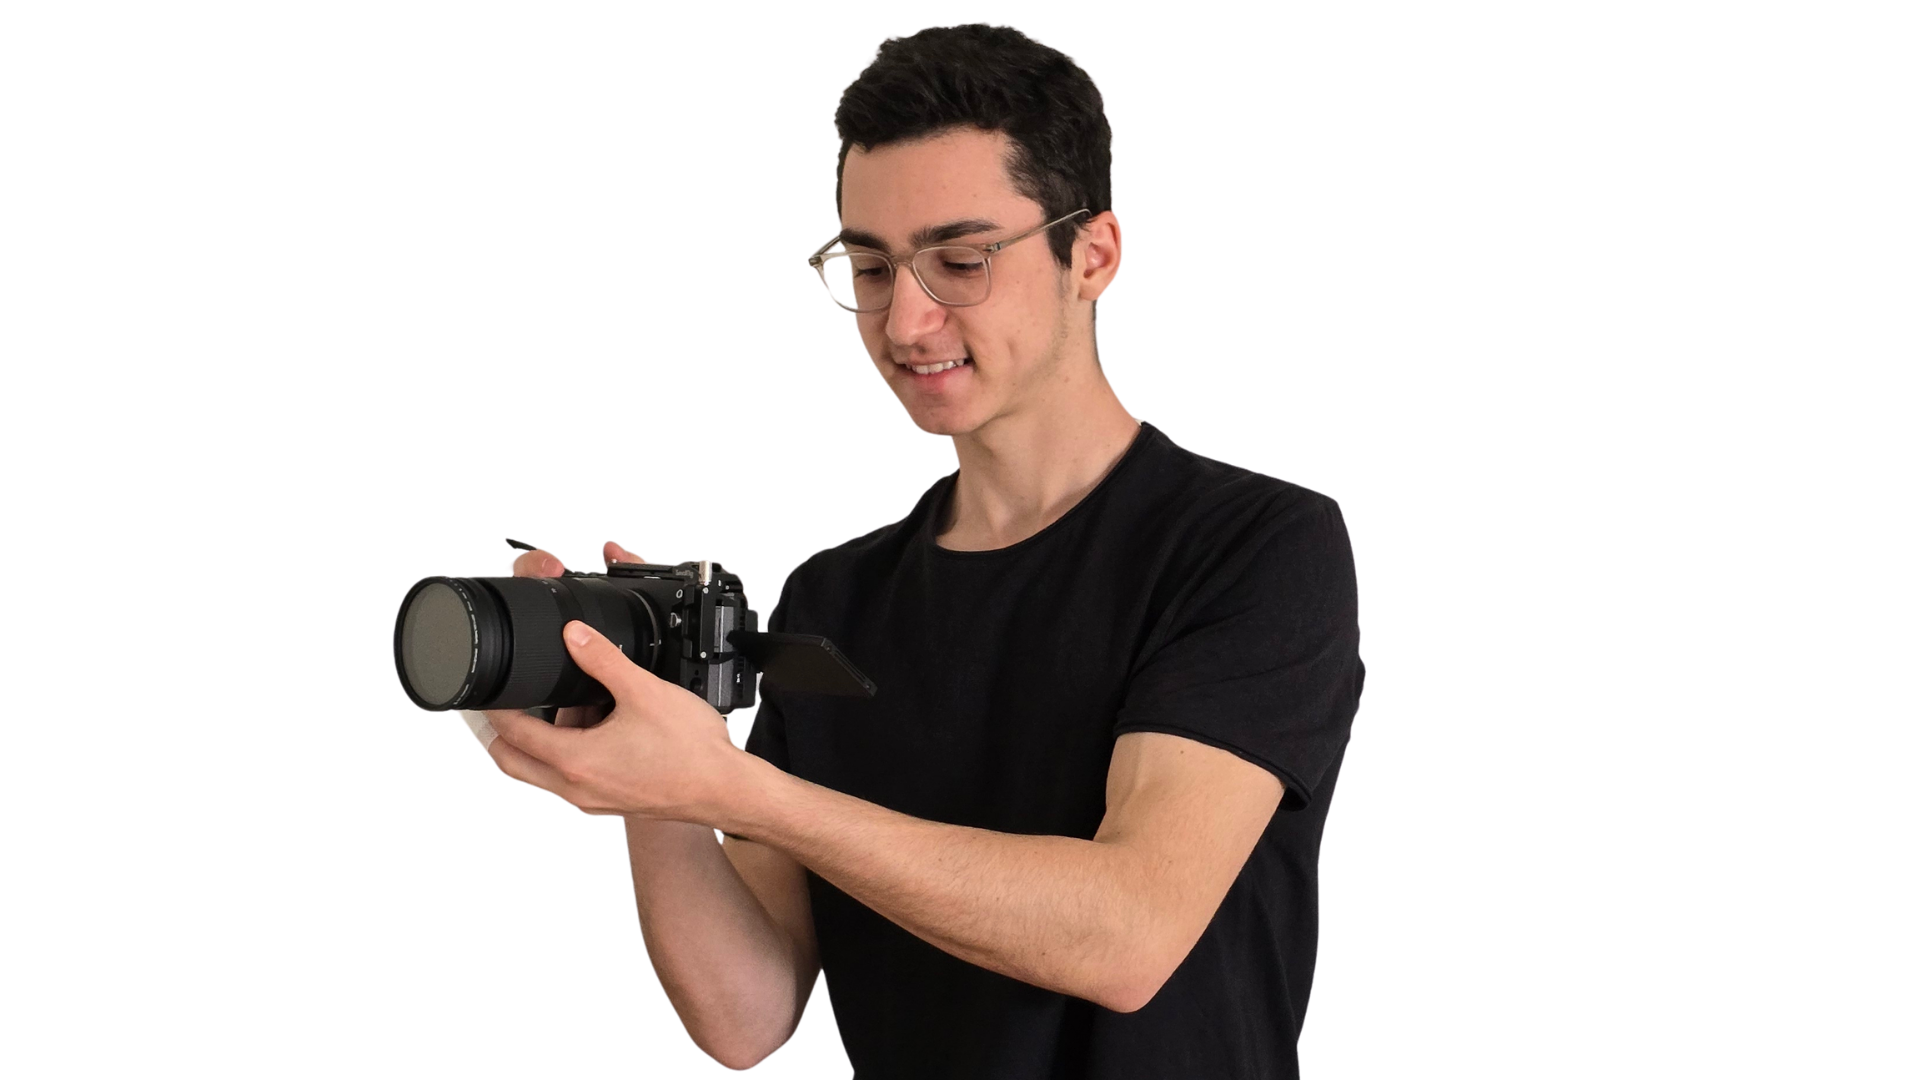
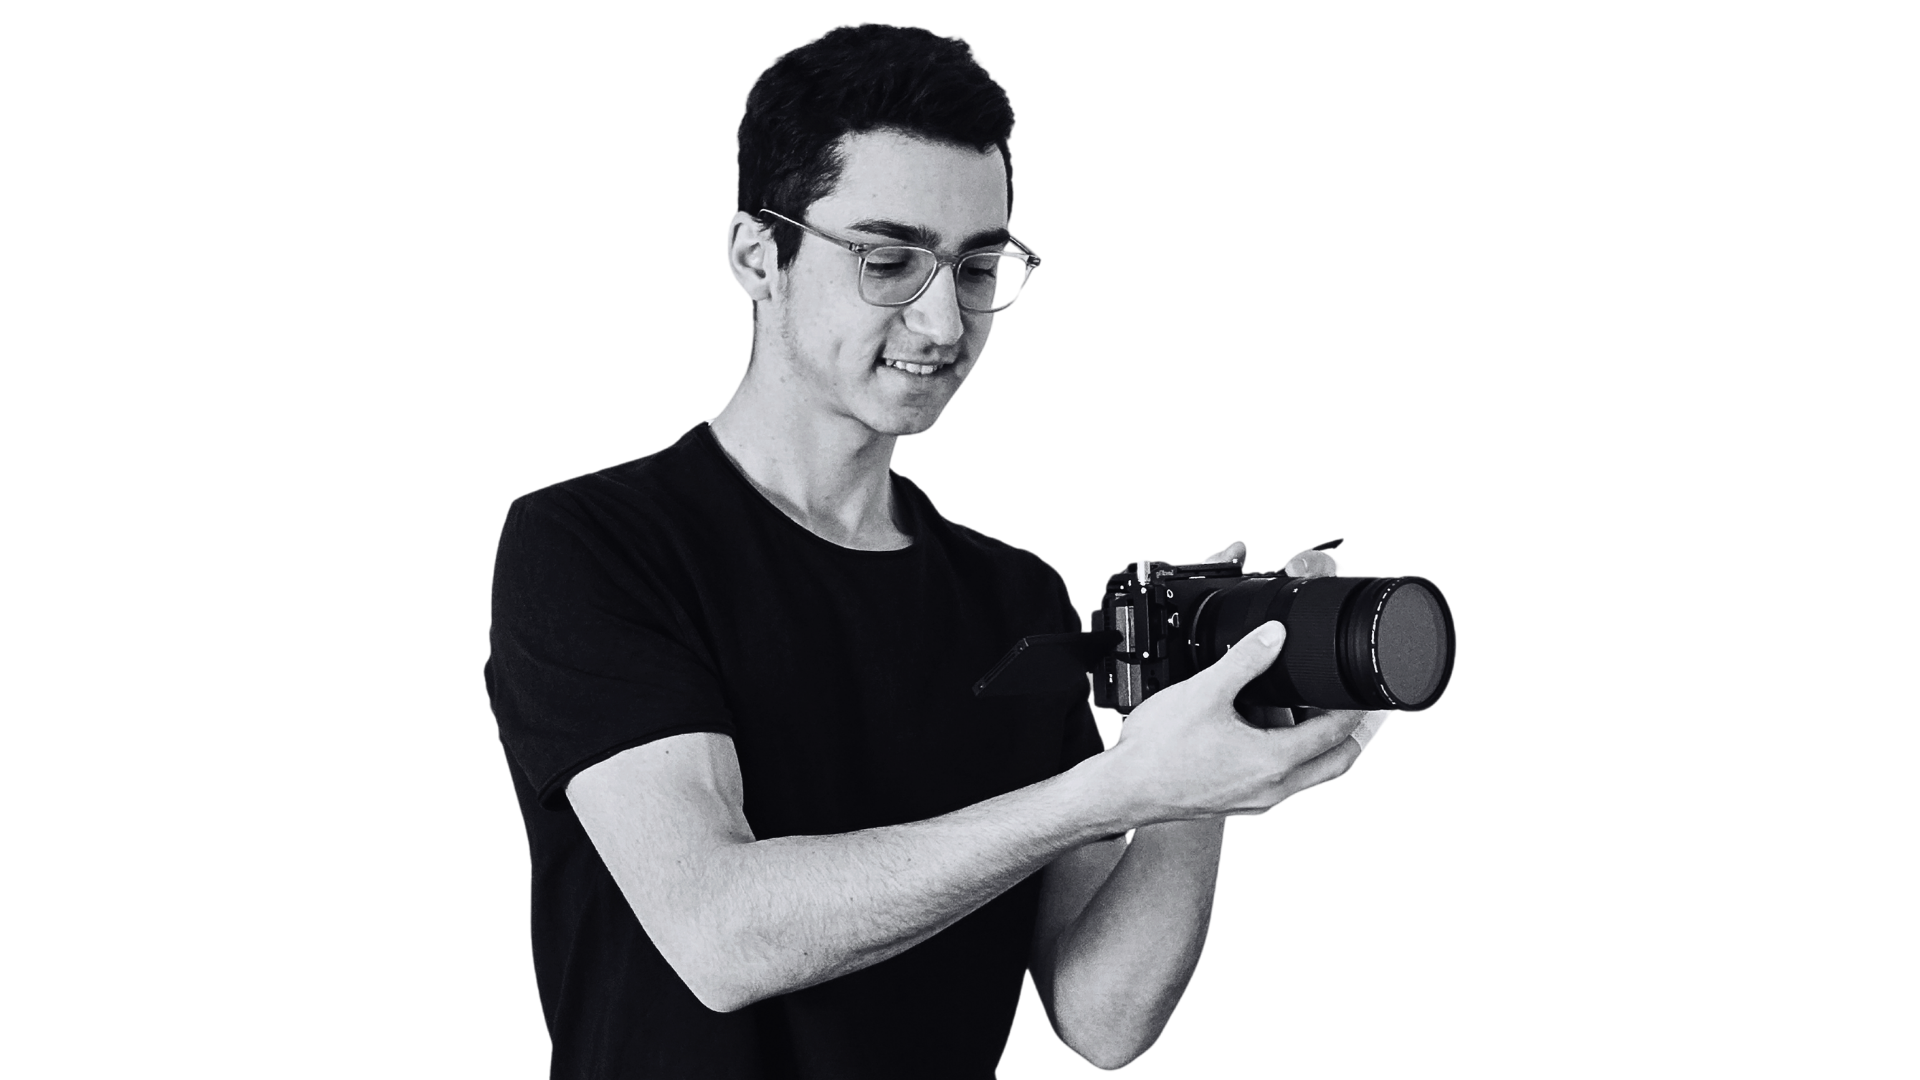
Hero: replace circle+badges with new photo and circle background
- Use hero-photo.png (cutout) layered over hero-circle.png background
- Remove hard circular clip, border, and floating badges
- Photo sits naturally above circle with drop-shadow
- Responsive: scales down on mobile/tablet

Changed region(s): [[0.1875, 0.0, 0.7812, 1.0]]

diff --git a/client/src/sections/Hero.css b/client/src/sections/Hero.css
@@ -79,58 +79,34 @@
 .hero__photo-wrap {
   position: relative;
   flex-shrink: 0;
-}
-
-.hero__photo {
-  width: clamp(260px, 30vw, 380px);
-  height: clamp(260px, 30vw, 380px);
-  border-radius: 50%;
-  background: linear-gradient(135deg, var(--color-bg-subtle), var(--color-bg-alt));
-  border: 2px solid rgba(255, 107, 74, 0.3);
+  width: clamp(300px, 36vw, 500px);
   display: flex;
-  align-items: center;
+  align-items: flex-end;
   justify-content: center;
-  box-shadow: 0 0 60px rgba(255, 107, 74, 0.1), var(--shadow-lg);
-  overflow: hidden;
 }
 
-.hero__photo img {
-  width: 100%;
-  height: 100%;
-  object-fit: cover;
-}
-
-.hero__photo-placeholder {
-  color: var(--color-text-muted);
-  font-size: 1.1rem;
-  font-weight: 500;
-}
-
-/* Floating badges */
-.hero__badge {
+/* Circle background — sits behind the photo */
+.hero__circle-bg {
   position: absolute;
-  background: rgba(28, 28, 28, 0.9);
-  border: 1px solid rgba(255, 255, 255, 0.1);
-  border-radius: var(--radius-full);
-  padding: var(--space-2) var(--space-4);
-  font-size: 0.9rem;
-  font-weight: 600;
-  color: var(--color-text);
-  box-shadow: var(--shadow-md);
-  display: flex;
-  align-items: center;
-  gap: var(--space-2);
-  top: 10%;
-  right: -20px;
-  white-space: nowrap;
-  backdrop-filter: blur(8px);
+  width: 82%;
+  height: auto;
+  top: 50%;
+  left: 50%;
+  transform: translate(-50%, -46%);
+  pointer-events: none;
+  user-select: none;
+  z-index: 0;
 }
 
-.hero__badge--bottom {
-  top: auto;
-  bottom: 12%;
-  right: auto;
-  left: -20px;
+/* Photo — no clip, no border, floats above the circle */
+.hero__photo-img {
+  position: relative;
+  z-index: 1;
+  width: 100%;
+  height: auto;
+  display: block;
+  object-fit: contain;
+  filter: drop-shadow(0 8px 32px rgba(0, 0, 0, 0.45));
 }
 
 /* Scroll indicator */
@@ -155,7 +131,6 @@
   }
   .hero__tagline { margin: 0 auto; }
   .hero__ctas { justify-content: center; }
-  .hero__badge { display: none; }
 }
 
 /* ── Mobile ── */
@@ -172,9 +147,8 @@
     text-align: center;
   }
 
-  .hero__photo {
-    width: 180px;
-    height: 180px;
+  .hero__photo-wrap {
+    width: clamp(240px, 72vw, 340px);
   }
 
   .hero__name {

diff --git a/client/src/sections/Hero.jsx b/client/src/sections/Hero.jsx
@@ -41,20 +41,12 @@ export function Hero() {
         {/* Photo column */}
         <motion.div
           className="hero__photo-wrap"
-          initial={{ opacity: 0, scale: 0.85 }}
+          initial={{ opacity: 0, scale: 0.88 }}
           animate={{ opacity: 1, scale: 1 }}
           transition={{ duration: 0.9, delay: 0.2, ease: [0.4, 0, 0.2, 1] }}
         >
-          <div className="hero__photo hero-photo-ring">
-            <img src="/hero-photo.png" alt="טל יעקבי" />
-          </div>
-
-          <div className="hero__badge float-badge">
-            <span>📷</span> צילום
-          </div>
-          <div className="hero__badge hero__badge--bottom float-badge">
-            <span>🎬</span> וידאו
-          </div>
+          <img src="/hero-circle.png" alt="" className="hero__circle-bg" aria-hidden="true" />
+          <img src="/hero-photo.png" alt="טל יעקבי" className="hero__photo-img" />
         </motion.div>
       </div>
 
